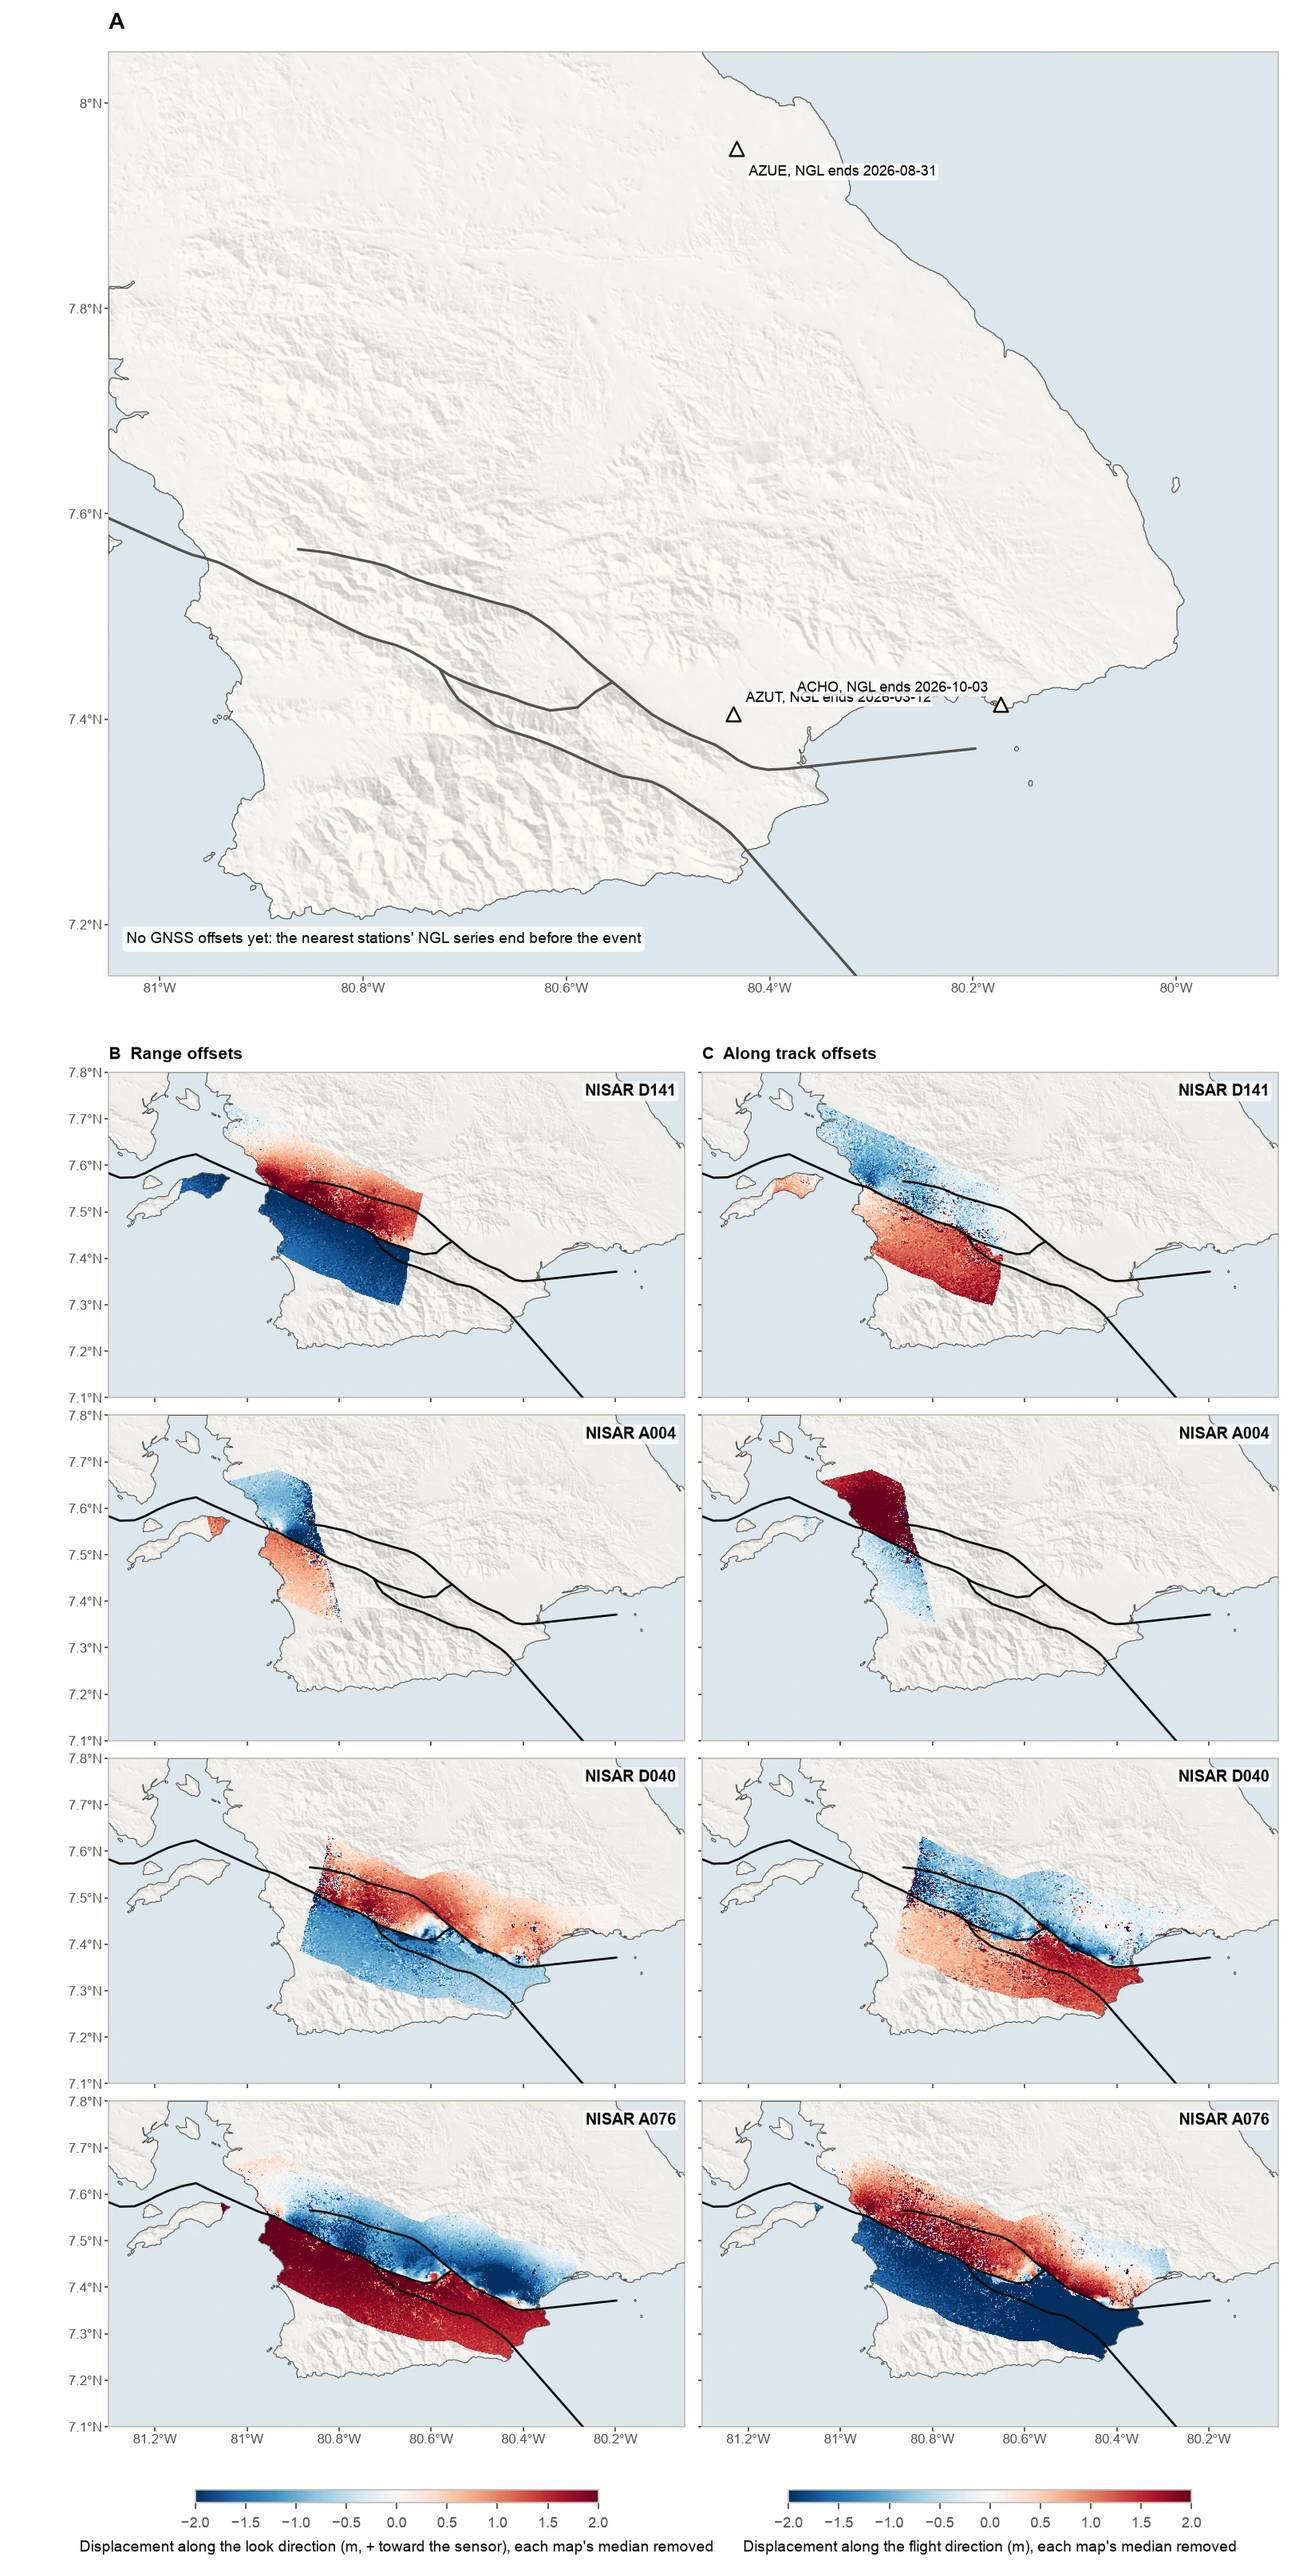
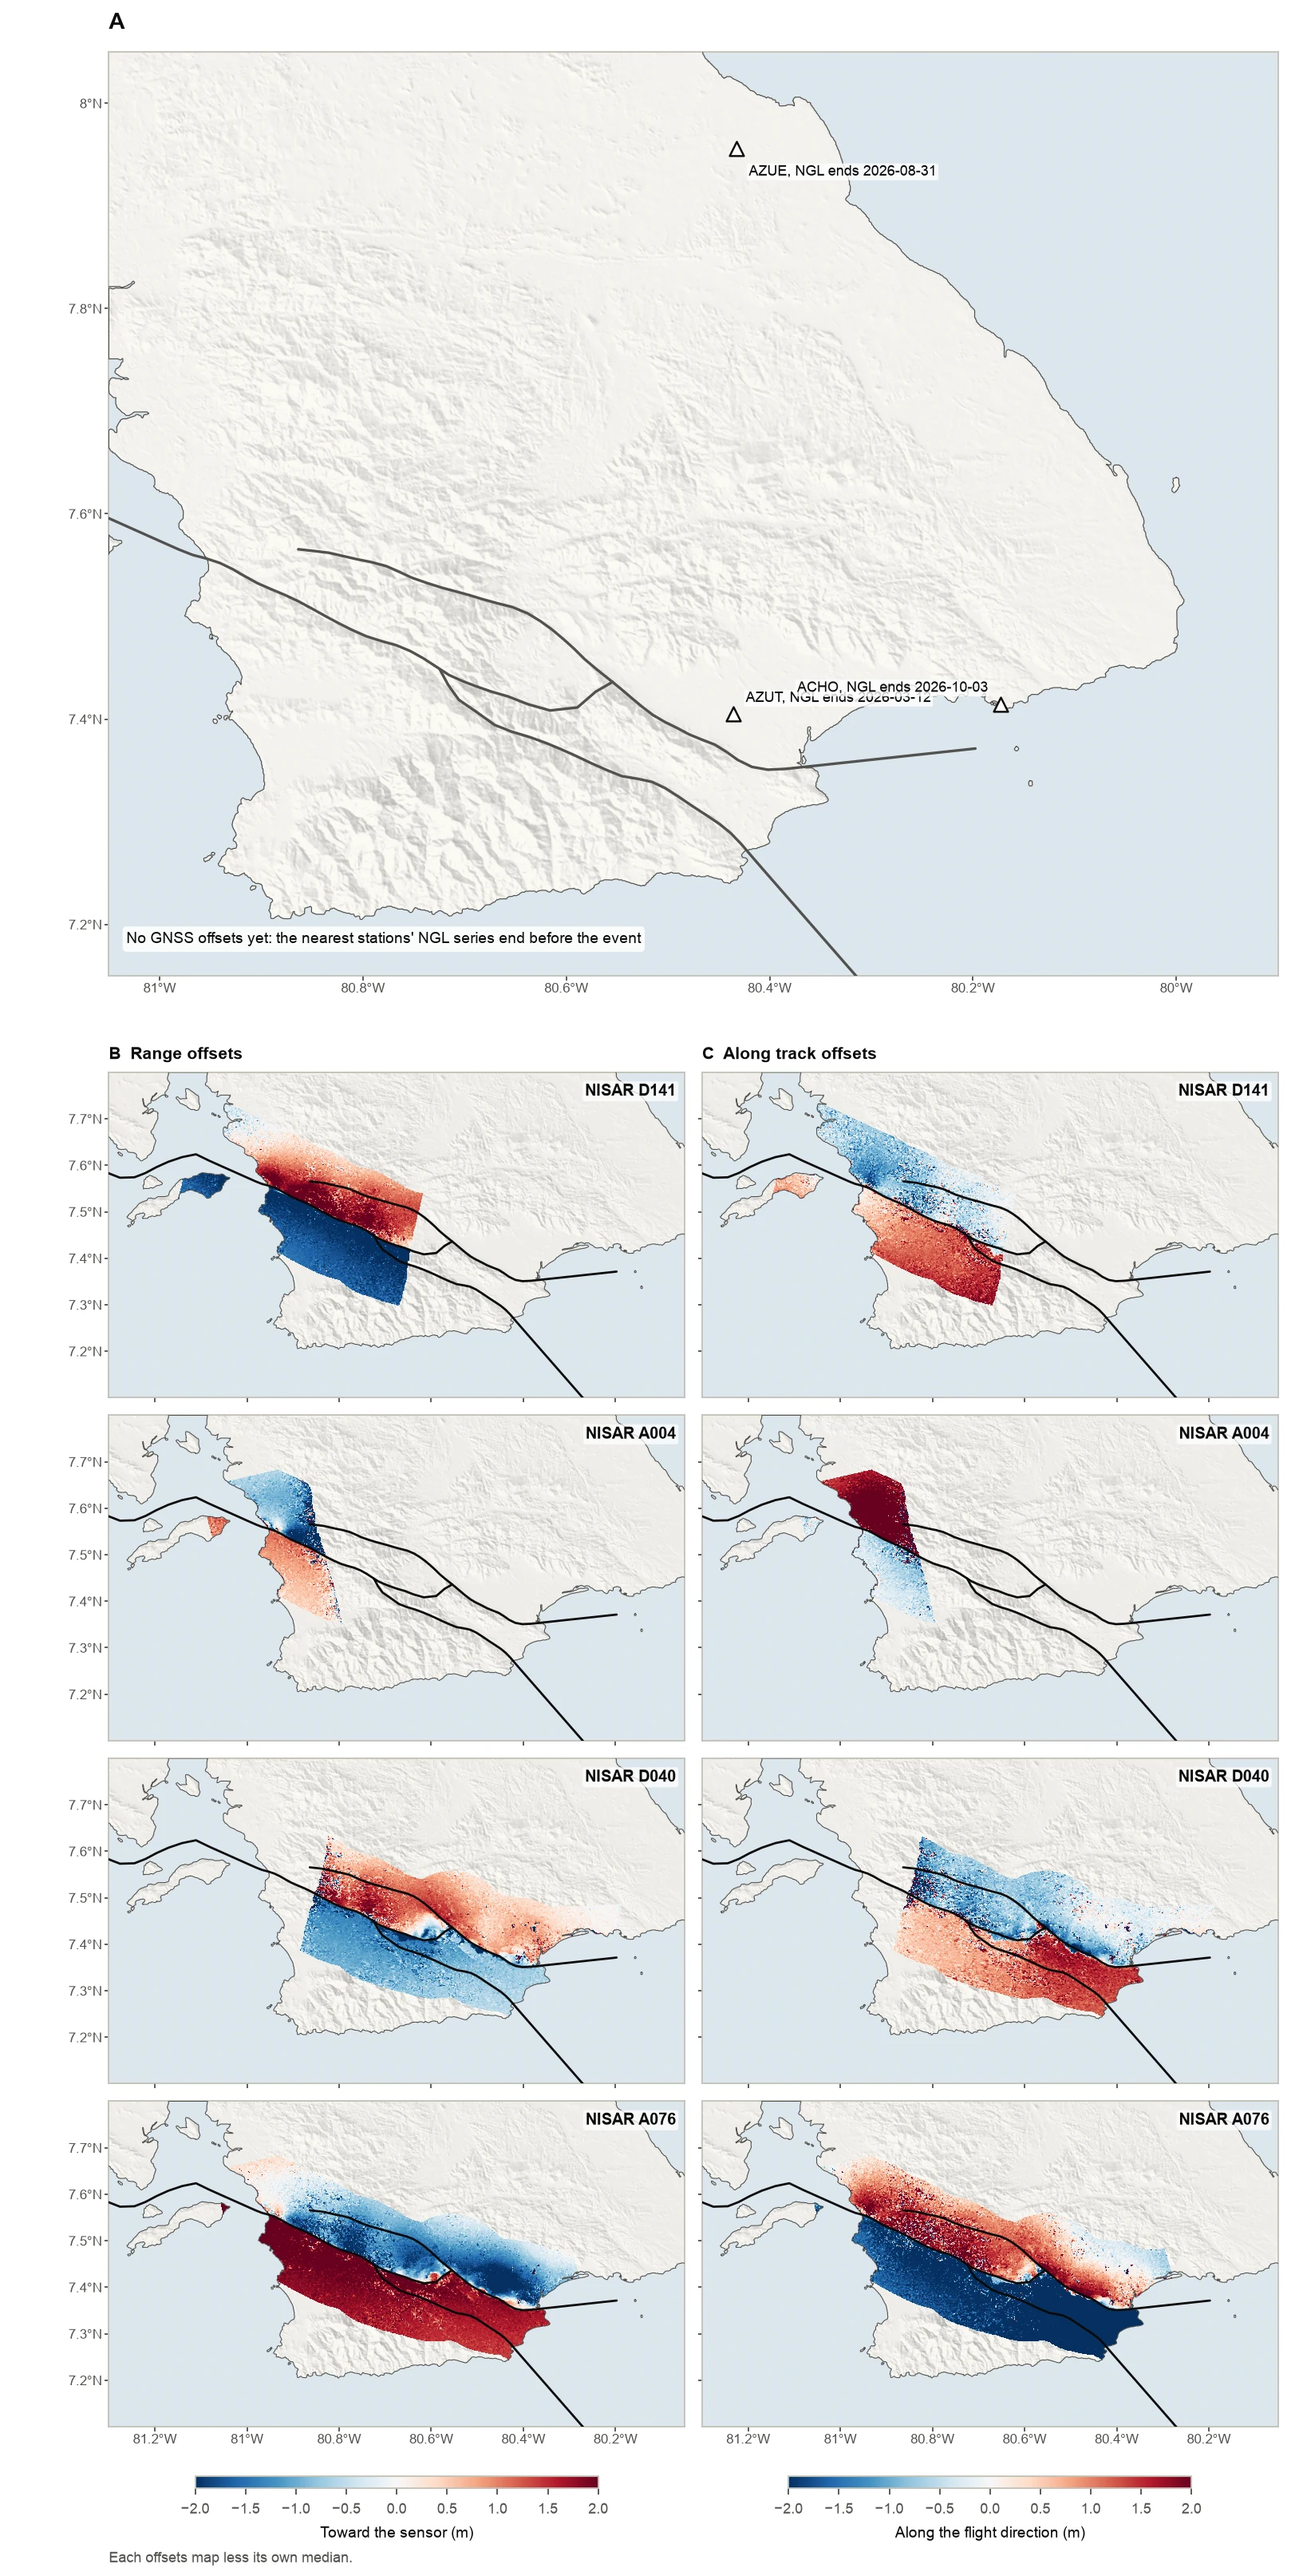
Slip models: the NISAR ionospheric screens beside the interferograms; tidier labels
Claude-Session: https://claude.ai/code/session_01Jh7HRsr9rCQcLgEgc5zuzg

Changed region(s): [[0.0921, 0.9609, 0.4914, 1.0], [0.5835, 0.9609, 0.9214, 0.9919]]

diff --git a/research/slip-models/index.html b/research/slip-models/index.html
@@ -76,7 +76,7 @@
           <summary>The data: interferograms, GNSS and pixel offsets</summary>
           <figure class="slip-figure">
             <a href="../../assets/img/slip/panama_2026/insar.webp"><img src="../../assets/img/slip/panama_2026/insar.webp" alt="Interferograms of the 2026 Herrera, Panama earthquake, as processed and corrected" loading="lazy"></a>
-            <figcaption><strong>Interferograms.</strong> Each track (A) as processed and (B) corrected: our split-spectrum ionospheric screen and the inversion's ramp removed. B shows the data the inversion used, on its own lattice (south of 8°10′N). Wrapped phase: one cycle of colour is half the radar wavelength of line-of-sight change.</figcaption>
+            <figcaption><strong>Interferograms.</strong> Each track (A) as processed, (B) our split-spectrum ionospheric screen, estimated from the two NISAR sub-bands, and (C) corrected: the screen and the inversion's ramp removed, on the inversion's own lattice (south of 8°10′N). Wrapped phase: one cycle of colour is half the radar wavelength of line-of-sight change.</figcaption>
           </figure>
           <figure class="slip-figure">
             <a href="../../assets/img/slip/panama_2026/gnss_offsets.webp"><img src="../../assets/img/slip/panama_2026/gnss_offsets.webp" alt="GNSS displacements and pixel offsets for the 2026 Herrera, Panama earthquake" loading="lazy"></a>
@@ -123,7 +123,7 @@
           <summary>The data: interferograms, GNSS and pixel offsets</summary>
           <figure class="slip-figure">
             <a href="../../assets/img/slip/venezuela_2026/insar.webp"><img src="../../assets/img/slip/venezuela_2026/insar.webp" alt="Interferograms of the 2026 Venezuela earthquake, as processed and corrected" loading="lazy"></a>
-            <figcaption><strong>Interferograms.</strong> Each track (A) as processed and (B) corrected: our split-spectrum ionospheric screen (NISAR) and the inversion's ramp removed. B shows the data the inversion used, on its own lattice. Wrapped phase: one cycle of colour is half the radar wavelength of line-of-sight change.</figcaption>
+            <figcaption><strong>Interferograms.</strong> Each track (A) as processed, (B) our split-spectrum ionospheric screen, estimated from the two NISAR sub-bands (ALOS-2 has a single band, so no screen), and (C) corrected: the screen and the inversion's ramp removed, on the inversion's own lattice. Wrapped phase: one cycle of colour is half the radar wavelength of line-of-sight change.</figcaption>
           </figure>
           <figure class="slip-figure">
             <a href="../../assets/img/slip/venezuela_2026/gnss_offsets.webp"><img src="../../assets/img/slip/venezuela_2026/gnss_offsets.webp" alt="GNSS displacements and pixel offsets for the 2026 Venezuela earthquake" loading="lazy"></a>
